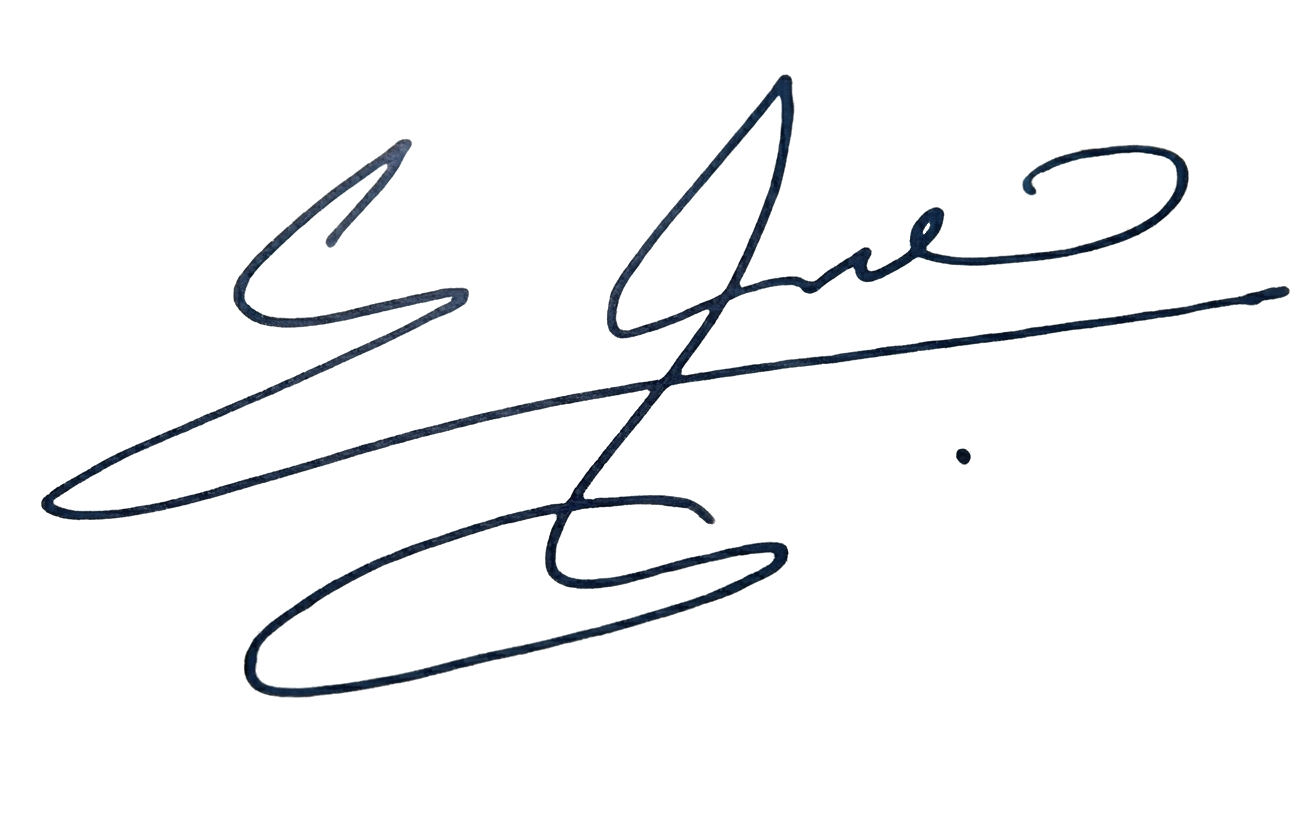
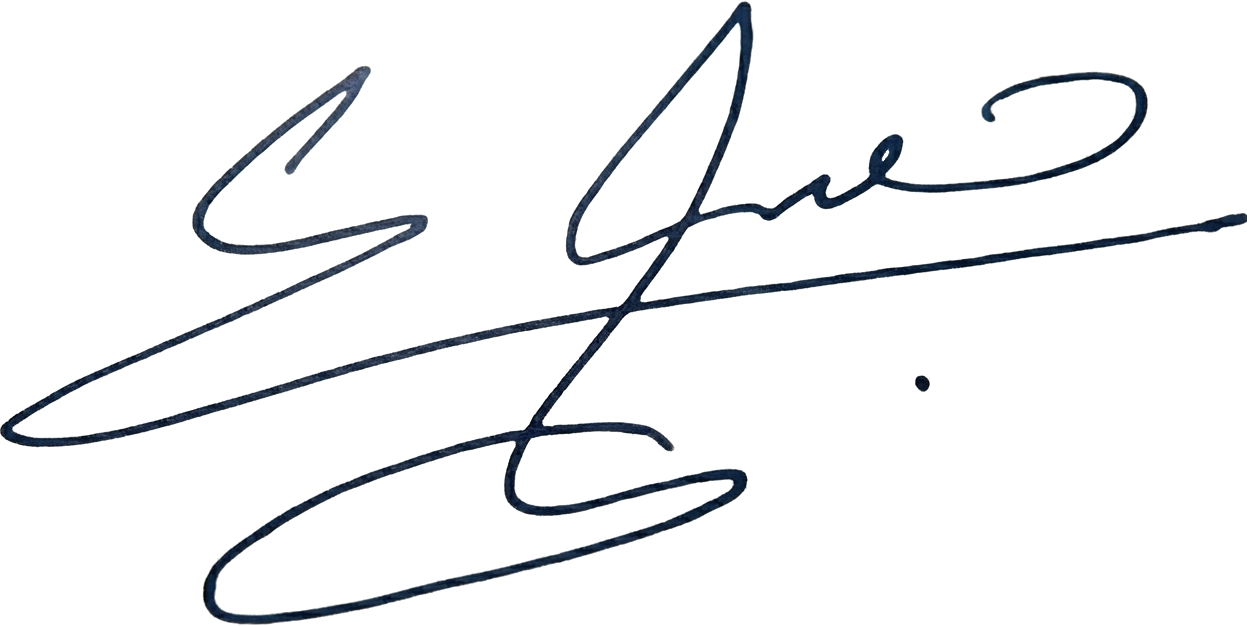
feat: update signature placeholder to use a new image with improved rendering settings

diff --git a/lib/widgets/contact_section/signature_placeholder.dart b/lib/widgets/contact_section/signature_placeholder.dart
@@ -6,15 +6,21 @@ class _SignaturePlaceholder extends StatelessWidget {
 
   @override
   Widget build(BuildContext context) {
+    const targetWidth = 200.0;
+    final devicePixelRatio = MediaQuery.of(context).devicePixelRatio;
+
     return Align(
       alignment: Alignment.topRight,
-      child: Image.asset(
-        'lib/assets/photos/developper/signature.png',
-        width: 180,
-        fit: BoxFit.contain,
-        semanticLabel: 'Signature',
-        colorBlendMode: BlendMode.dstIn,
-        color: Colors.white,
+      child: ColorFiltered(
+        colorFilter: const ColorFilter.mode(Colors.white, BlendMode.srcIn),
+        child: Image.asset(
+          'lib/assets/photos/developper/signature.png',
+          width: targetWidth,
+          fit: BoxFit.contain,
+          filterQuality: FilterQuality.high,
+          cacheWidth: (targetWidth * devicePixelRatio).round(),
+          semanticLabel: 'Signature',
+        ),
       ),
     );
   }
